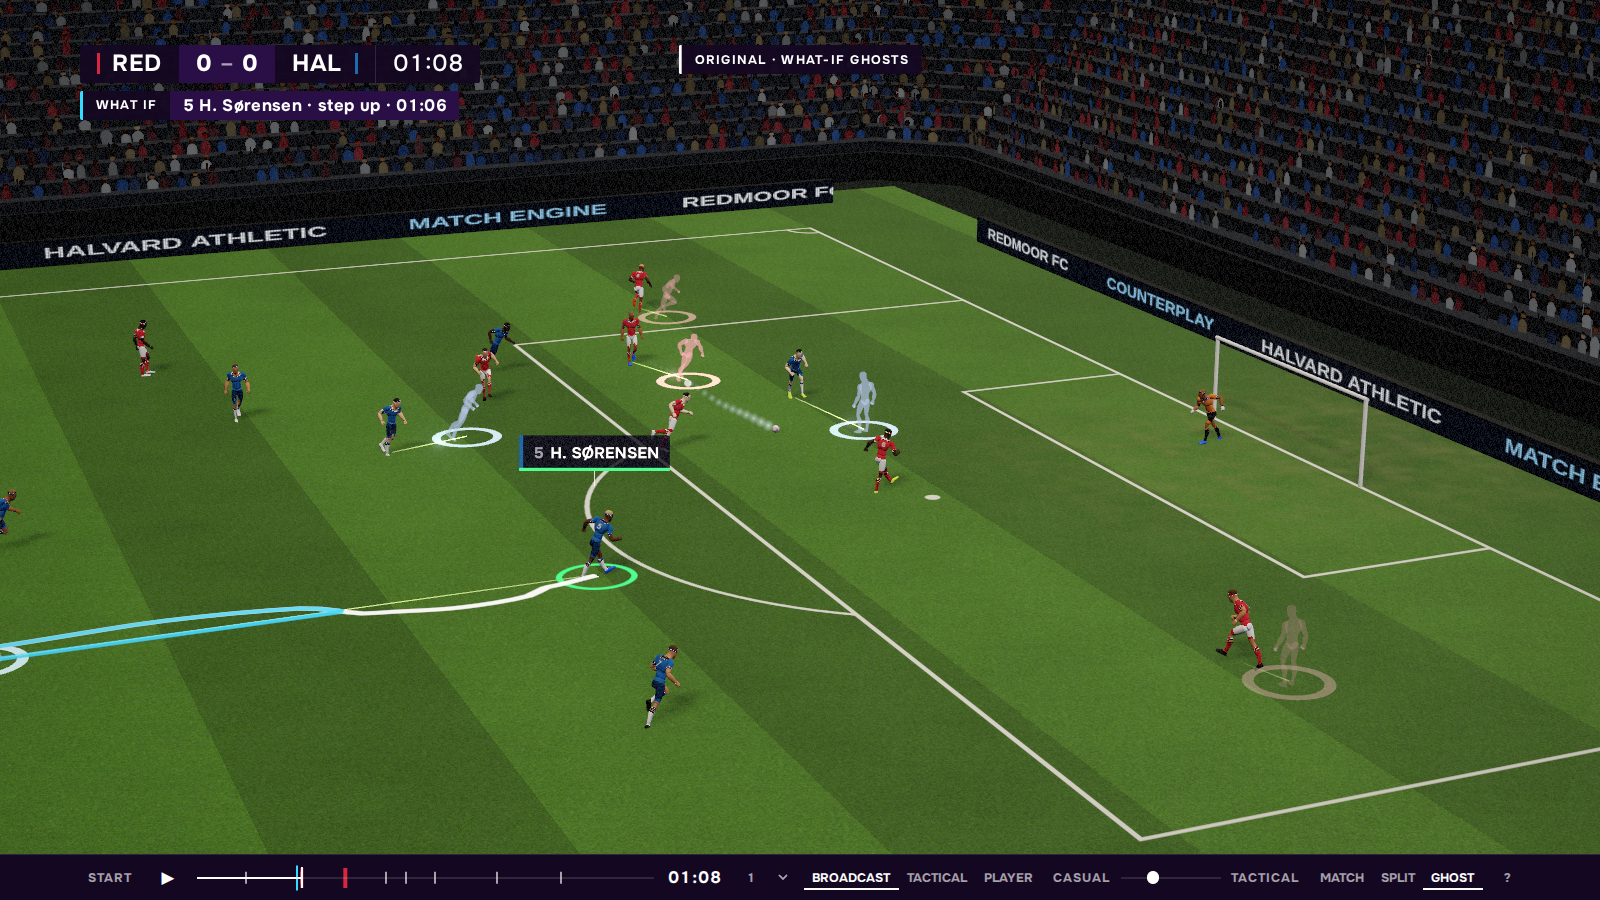
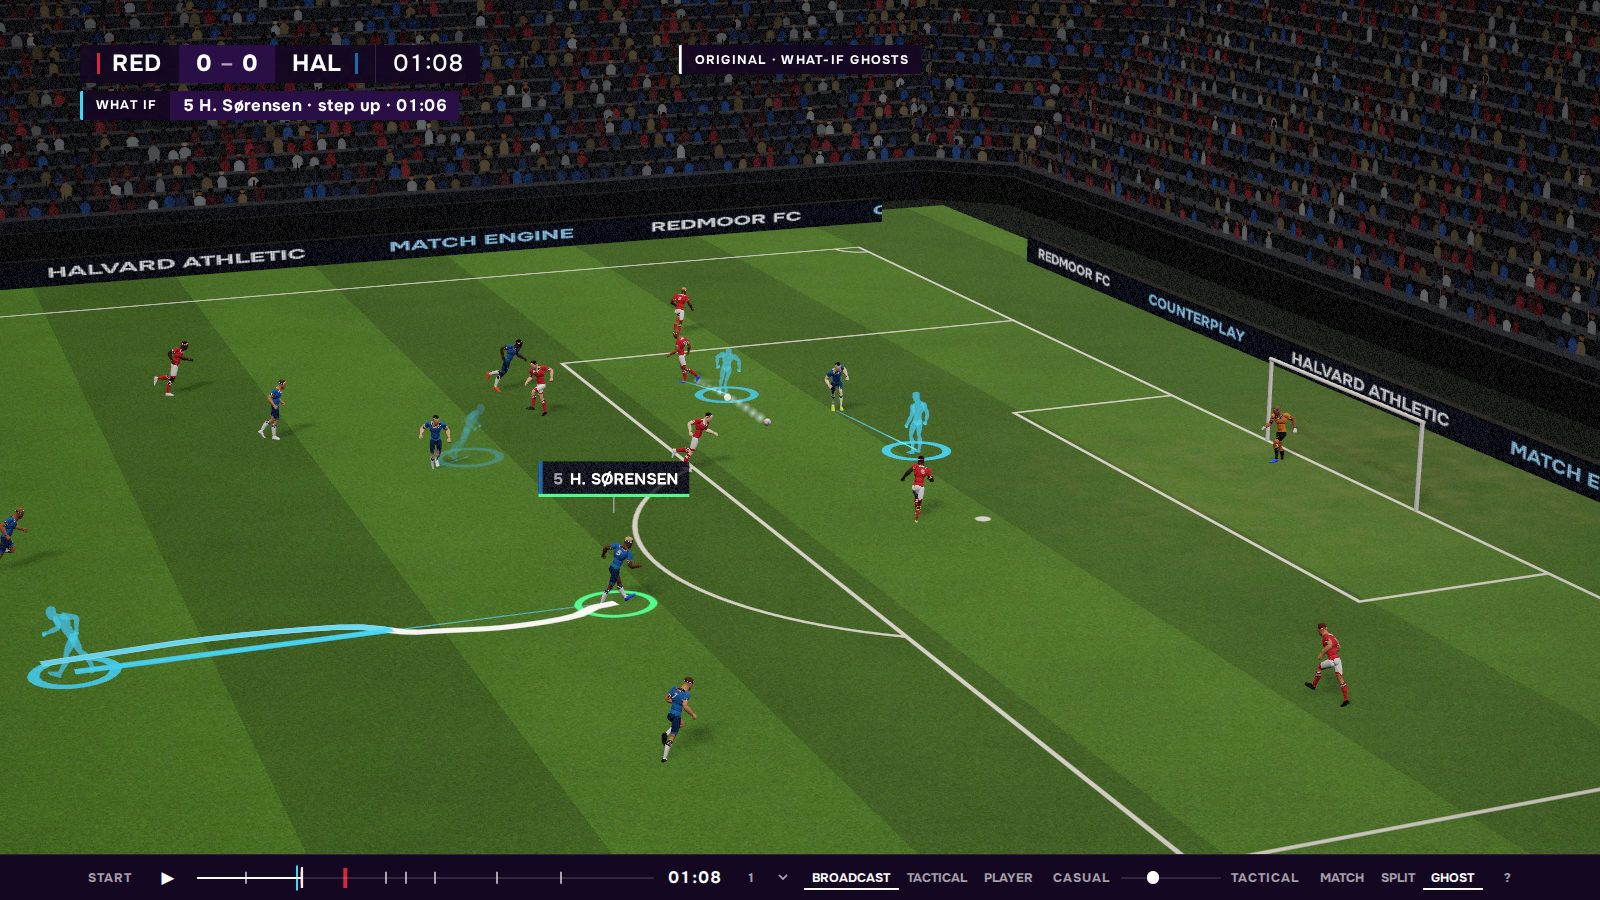
web(world): Onest (FONT token) for shirt numbers + LED boards, preloaded before canvas draws; ghosts tinted C.whatif

diff --git a/web/src/players.ts b/web/src/players.ts
@@ -5,13 +5,16 @@ import { GLTFLoader } from 'three/examples/jsm/loaders/GLTFLoader.js';
 import { clone as cloneSkinned } from 'three/examples/jsm/utils/SkeletonUtils.js';
 import { Match, Side, SIDES, Snapshot, positionsAt } from './data';
 import { toWorld, filmic } from './scene';
+import { C, FONT, W as FW } from './tokens';
 
 // ---------- one-time asset prep ----------
-const gltf = await new GLTFLoader().loadAsync('assets/players/mannequin.glb');
+// font first: shirt numbers are drawn into canvases at construction, so the recorder never captures the fallback face
+const [gltf] = await Promise.all([new GLTFLoader().loadAsync('assets/players/mannequin.glb'), document.fonts.load(`${FW.strong} 100px ${FONT}`)]);
 const template = gltf.scene;
 template.updateMatrixWorld(true);
 
 // body regions from the dominant skinning bone + bind-pose height, so one mesh can wear any kit
+const WHATIF = new THREE.Color(C.whatif);
 const R = { skin: 0, shirt: 1, shorts: 2, socks: 3, boots: 4, hair: 5, hands: 6, trim: 7 };
 const skinned: THREE.SkinnedMesh[] = [];
 template.traverse((o) => { if ((o as THREE.SkinnedMesh).isSkinnedMesh) skinned.push(o as THREE.SkinnedMesh); });
@@ -60,7 +63,8 @@ const HAIR = ['#1b1410', '#2e1f14', '#5a3b22', '#8a6a3c', '#c8a46a', '#0e0e0e'].
 const BOOTS = ['#111111', '#f2f2f2', '#d8ff3a', '#ff5a1f', '#1e6bff'].map((c) => new THREE.Color(c));
 
 function kitMaterial(cols: THREE.Color[], ghost: boolean) {
-  if (ghost) return new THREE.MeshBasicMaterial({ color: cols[R.shirt].clone().lerp(new THREE.Color('#fff'), 0.35).multiplyScalar(1.3), transparent: true, opacity: 0.5, depthWrite: false });
+  // ghosts are the alternate timeline: one what-if tint for both teams, translucent
+  if (ghost) return new THREE.MeshBasicMaterial({ color: WHATIF, transparent: true, opacity: 0.5, depthWrite: false });
   const m = new THREE.MeshStandardMaterial({ roughness: 0.62, metalness: 0 });
   return filmic(m, 'kit', (s) => {
     s.uniforms.uRegion = { value: cols };
@@ -77,7 +81,7 @@ function kitMaterial(cols: THREE.Color[], ghost: boolean) {
 function numberTexture(num: number, fg: string) {
   const c = document.createElement('canvas'); c.width = c.height = 128;
   const g = c.getContext('2d')!;
-  g.font = '700 100px "Barlow Condensed", sans-serif'; g.textAlign = 'center'; g.textBaseline = 'middle';
+  g.font = `${FW.strong} 92px ${FONT}`; g.textAlign = 'center'; g.textBaseline = 'middle';
   g.fillStyle = fg; g.fillText(String(num), 64, 70);
   const t = new THREE.CanvasTexture(c); t.colorSpace = THREE.SRGBColorSpace; t.anisotropy = 4; return t;
 }
@@ -140,8 +144,7 @@ export class Players {
         this.figs[side].push(f); this.group.add(f.root);
         if (ghost) {
           const ring = new THREE.Mesh(new THREE.RingGeometry(0.75, 1.0, 32), new THREE.MeshBasicMaterial({
-            color: new THREE.Color(tm.color).lerp(new THREE.Color('#fff'), 0.4).multiplyScalar(1.8), transparent: true, opacity: 0.8,
-            depthWrite: false, blending: THREE.AdditiveBlending, toneMapped: false }));
+            color: WHATIF, transparent: true, opacity: 0.8, depthWrite: false, toneMapped: false }));
           ring.rotation.x = -Math.PI / 2; this.rings.push(ring); this.group.add(ring);
         }
       });
@@ -180,8 +183,8 @@ export class Players {
       for (const side of SIDES) s.pos[side].forEach(([x, y], i) => {
         const [rx, ry] = ref.pos[side][i], d = Math.hypot(x - rx, y - ry), al = vis(d), f = this.figs[side][i];
         const ln = al * Math.min(1, Math.max(0, (22 - d) / 6)); // no links once the timelines have fully diverged
-        a.setXYZ(k, x, 0.08, -y); c.setXYZ(k++, 1.3 * ln, 1.6 * ln, 0.6 * ln);
-        a.setXYZ(k, rx, 0.08, -ry); c.setXYZ(k++, 0.3 * ln, 0.35 * ln, 0.15 * ln);
+        a.setXYZ(k, x, 0.08, -y); c.setXYZ(k++, WHATIF.r * ln, WHATIF.g * ln, WHATIF.b * ln);
+        a.setXYZ(k, rx, 0.08, -ry); c.setXYZ(k++, WHATIF.r * ln * 0.25, WHATIF.g * ln * 0.25, WHATIF.b * ln * 0.25);
         const ring = this.rings[(side === 'home' ? 0 : 11) + i];
         ring.position.set(x, 0.05, -y); ring.visible = f.root.visible = al > 0.02;
         (ring.material as THREE.MeshBasicMaterial).opacity = 0.8 * al;

diff --git a/web/src/scene.ts b/web/src/scene.ts
@@ -8,6 +8,7 @@ import { UnrealBloomPass } from 'three/examples/jsm/postprocessing/UnrealBloomPa
 import { ShaderPass } from 'three/examples/jsm/postprocessing/ShaderPass.js';
 import { OutputPass } from 'three/examples/jsm/postprocessing/OutputPass.js';
 import { HDRLoader } from 'three/examples/jsm/loaders/HDRLoader.js';
+import { FONT, W as FW } from './tokens';
 
 export const L = 105, W = 68;
 // data (x, y, z-up) -> three (x, y-up, z toward broadcast camera)
@@ -34,6 +35,7 @@ const tl = new THREE.TextureLoader();
 const [grassCol, grassNrm, grassRgh, hdr] = await Promise.all([
   tl.loadAsync('assets/textures/grass/color.jpg'), tl.loadAsync('assets/textures/grass/normal.jpg'),
   tl.loadAsync('assets/textures/grass/roughness.jpg'), new HDRLoader().loadAsync('assets/hdri/kloppenheim_02_puresky_1k.hdr'),
+  document.fonts.load(`${FW.strong} 40px ${FONT}`), // LED board text is drawn into a canvas: load the face first
 ]);
 grassCol.colorSpace = THREE.SRGBColorSpace;
 for (const t of [grassCol, grassNrm, grassRgh]) { t.wrapS = t.wrapT = THREE.RepeatWrapping; t.anisotropy = 8; }
@@ -200,7 +202,7 @@ function boardTexture(home: string, away: string) {
   const c = document.createElement('canvas'); c.width = 2048; c.height = 64;
   const g = c.getContext('2d')!;
   g.fillStyle = '#06101f'; g.fillRect(0, 0, c.width, c.height);
-  g.font = '700 40px "Barlow Condensed", sans-serif'; g.textBaseline = 'middle';
+  g.font = `${FW.strong} 36px ${FONT}`; g.textBaseline = 'middle';
   const words = [home.toUpperCase(), 'COUNTERPLAY', away.toUpperCase(), 'MATCH ENGINE'];
   let x = 40;
   for (let i = 0; x < c.width; i++) { const w = words[i % words.length]; g.fillStyle = i % 2 ? '#9fdcff' : '#f2f5fa'; g.fillText(w, x, 34); x += g.measureText(w).width + 120; }
